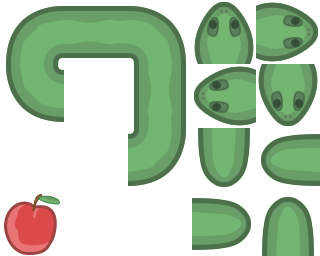
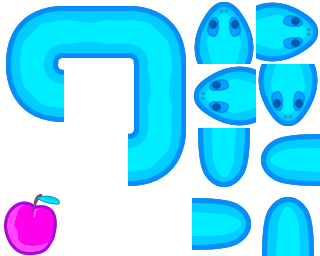
Change colours of snake and apple

diff --git a/frontend/index.js b/frontend/index.js
@@ -82,17 +82,22 @@ function paintGame(state) {
     // ctx.fillStyle = FOOD_COLOUR;
     // ctx.fillRect(food.x * size, food.y * size, size, size);
 
-    let newImage = new Image();
-    newImage.src = 'apple.png';
+    images = loadImages(["apple.png"]);
+    tileimage = images[0];
 
     if (prev_state !== state.food) {
         prev_state = state.food;
         // When it loads
-            ctx.drawImage(newImage, food.x*size, food.y*size, size, size);
+        var tx = 0;
+        var ty = 10;
+        var tilew = 64;
+        var tileh = 64;
+        ctx.drawImage(tileimage, tx*size, ty*size, tilew, tileh, food.x*size, food.y*size, size, size);
+        // ctx.drawImage(tileimage, food.x*size, food.y*size, size, size);
     }    
 
-    paintPlayer(state.players[0], size, SNAKE_COLOUR);
-    paintPlayer(state.players[1], size, 'blue');
+    paintPlayer(state.players[0], size, 'blue');
+    paintPlayer(state.players[1], size, 'yellow');
 }
 
 function loadImages(imagefiles) {
@@ -130,7 +135,12 @@ function loadImages(imagefiles) {
 function paintPlayer(playerState, size, colour) {
     const snake = playerState.snake;
     // Load images
-    images = loadImages(["snake-graphics.png"]);
+    if (colour === 'blue') {
+        images = loadImages(["snake-graphics.png"]);
+    }
+    else if (colour === 'yellow') {
+        images = loadImages(["enemy-snake-graphics.png"]);
+    }
     tileimage = images[0];
     // ctx.fillStyle = colour;
     // for (cell of snake) {
